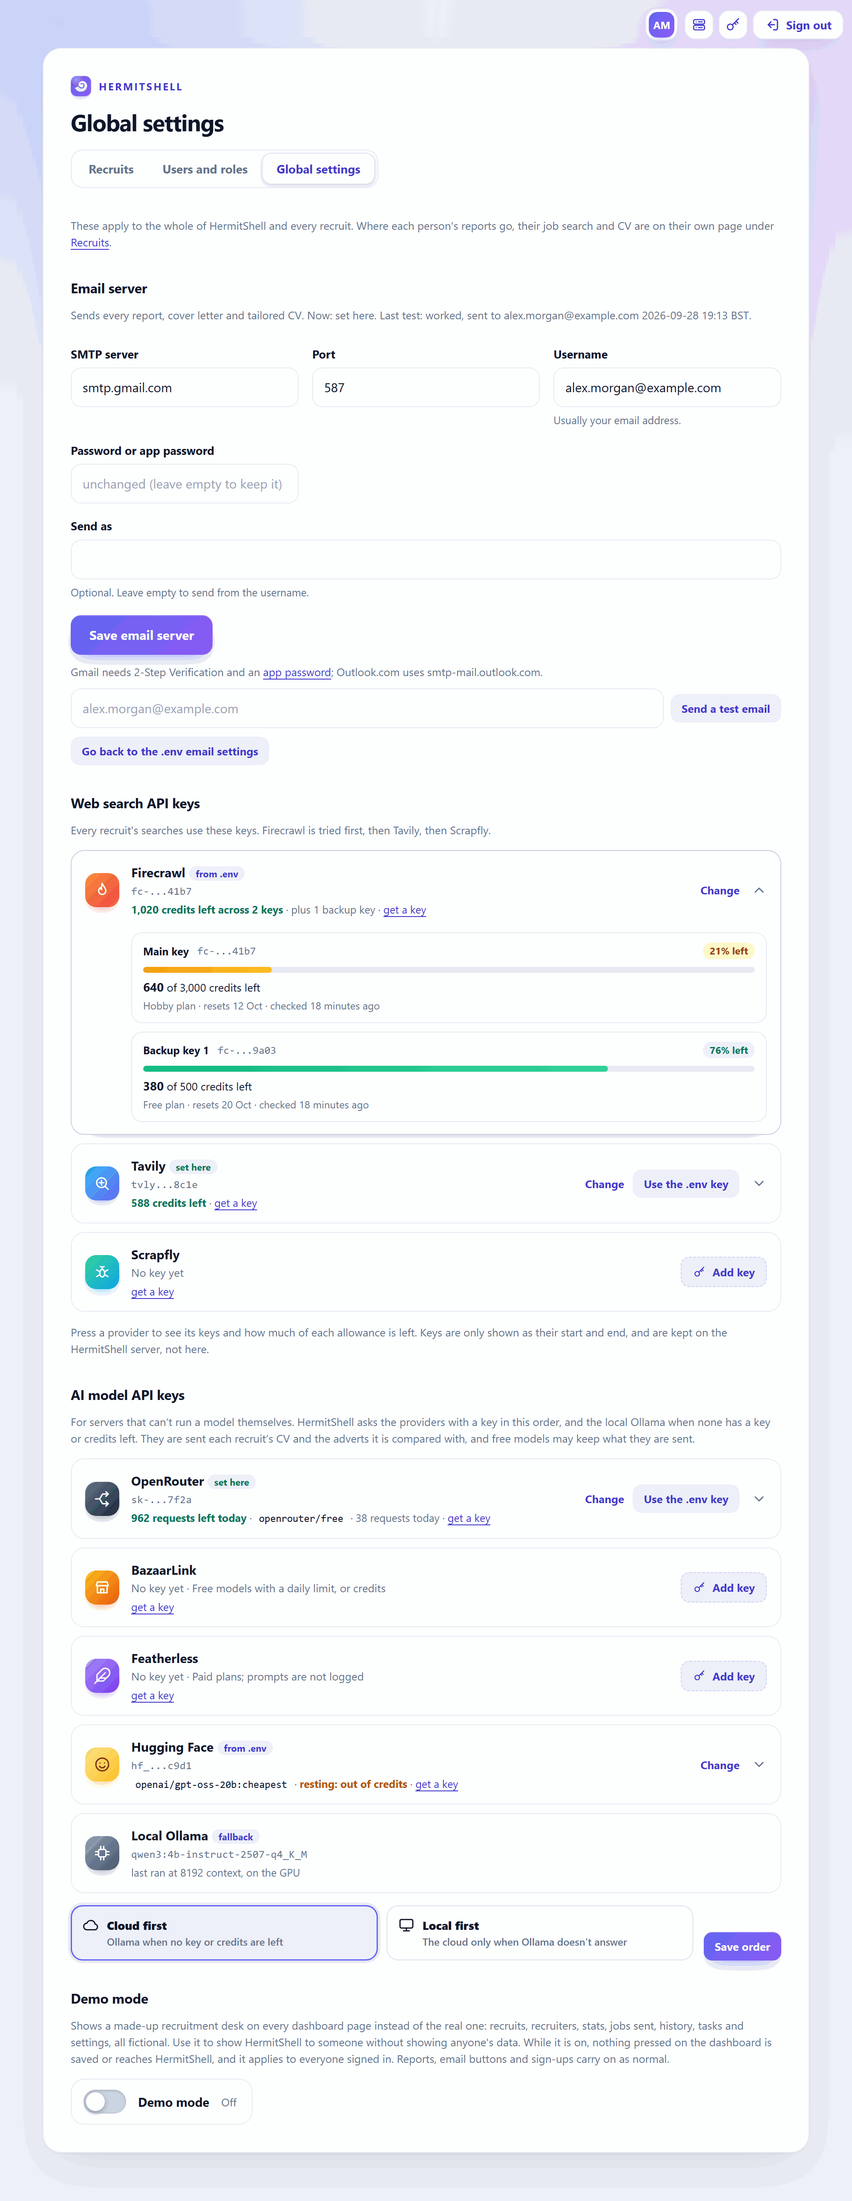
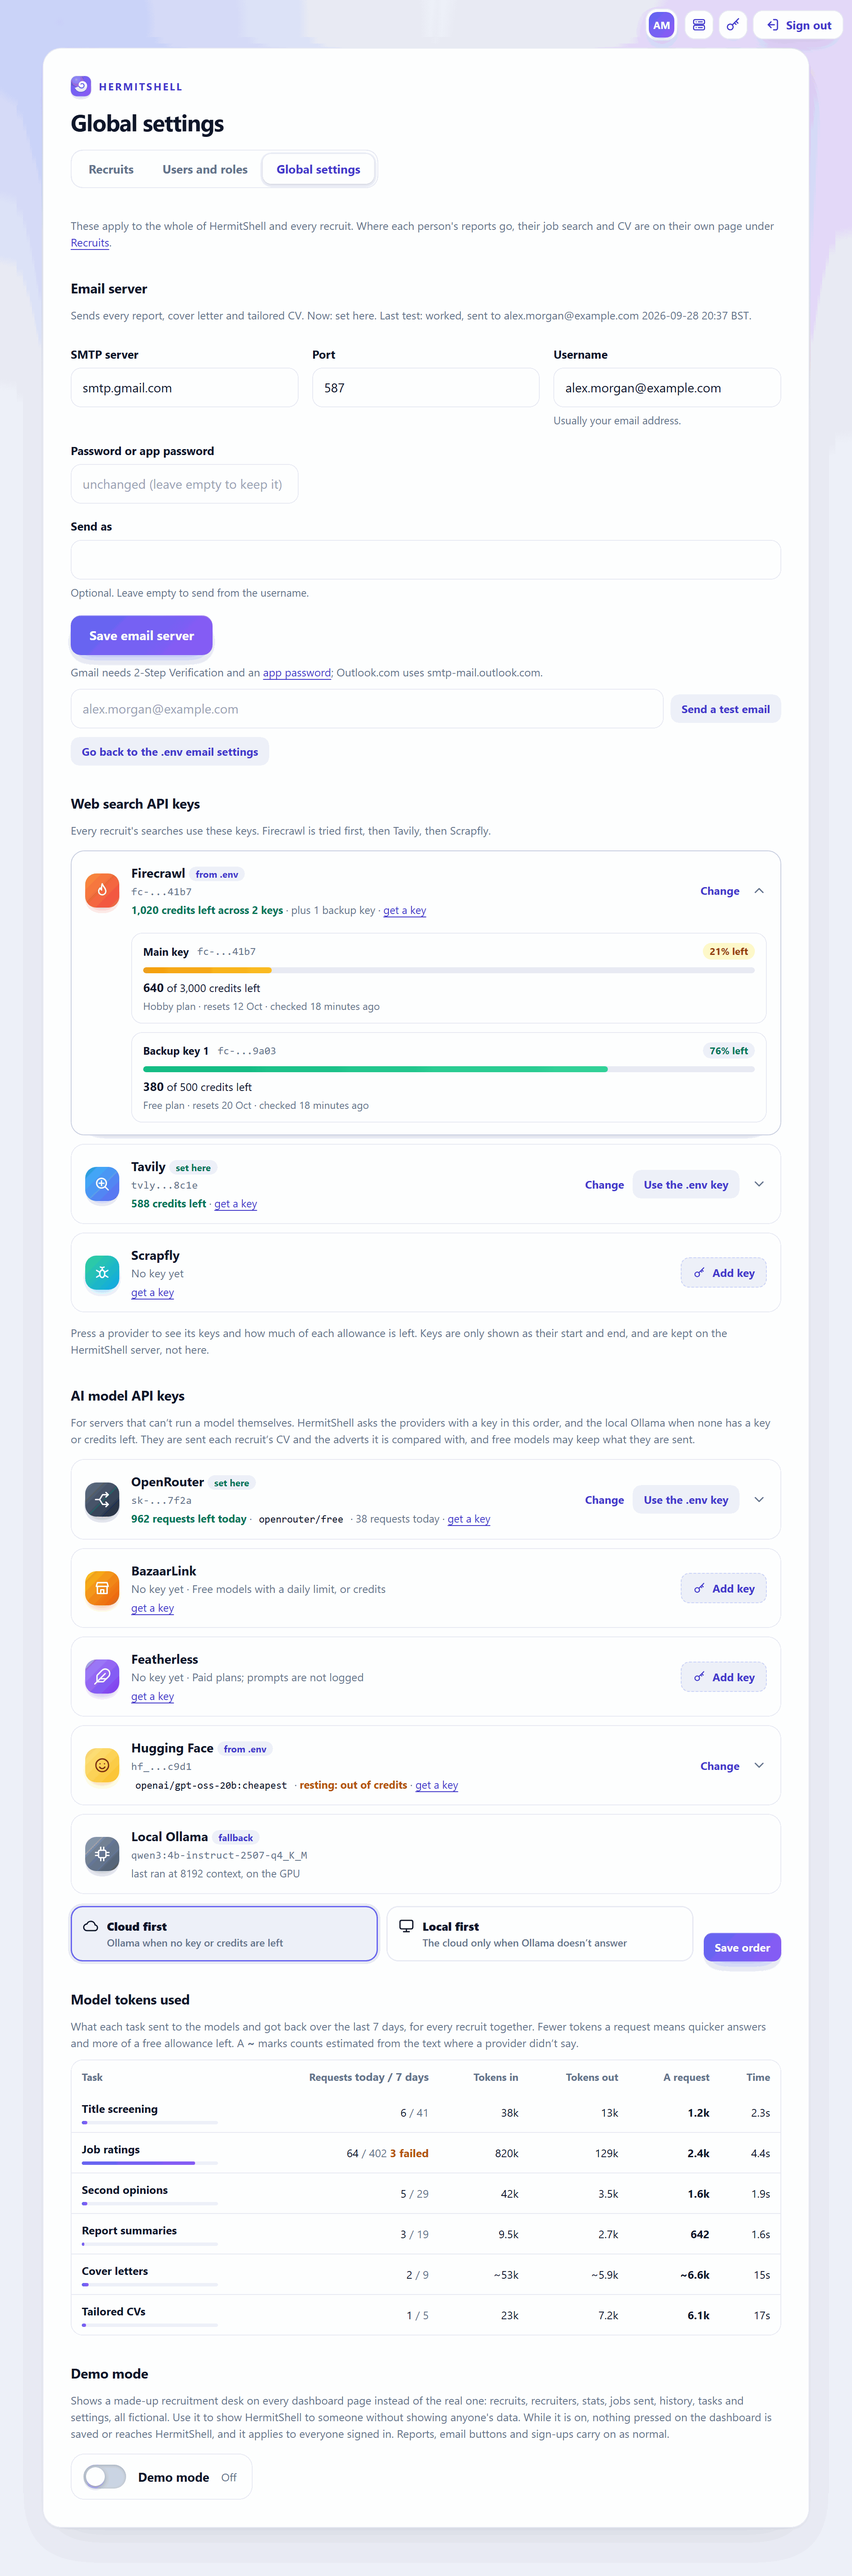
Docs: tokens used per task, the model bench, changelog and settings screenshots

diff --git a/docs/configuration.md b/docs/configuration.md
@@ -101,6 +101,35 @@ Global settings shows each key's usage (`key_usage.py`, every `WEB_KEY_USAGE_MIN
 server button the machine, the models in order and the last one that answered. Keys and setup:
 [Cloud models](api-keys.md#cloud-models).
 
+### Tokens used
+
+Every model request adds its prompt and reply tokens to `llm_usage.json` (`llm_usage.py`) in the shared
+state folder, beside the dashboard settings, so every recruit's runs count together. They are kept under
+the task that asked: title screening, job ratings, second opinions, report summaries, profiles from CVs,
+reading CVs, cover letters, tailored CVs and skills added to CVs. The counts are the provider's own: a
+cloud provider's `usage`, and Ollama's `prompt_eval_count` (which leaves out a prompt start it had cached)
+and `eval_count`. Where a provider doesn't say, they are estimated at about four characters a token and
+marked as estimates. Only counts are kept, never a prompt, a reply, a model's name or a key, and days
+older than 31 are dropped. `python3 llm_usage.py` prints today and the last 7 days, and Global settings
+shows them ([Model tokens used](feedback-worker.md#model-tokens-used)).
+
+### Testing prompts and models
+
+`scripts/llm_bench.py` runs HermitShell's real prompts on the configured models with made-up CVs and
+adverts (`scripts/bench/cases.json`). Each case rates a CV against an advert and checks the score lands
+in the expected range; the good matches also get a cover letter and a tailored CV, checked without a
+model (`writing_checks.py`) for figures and job titles the CV doesn't have, stock phrases, length and how
+many of the advert's requirements they cover. Tokens are counted in a throwaway file, so a changed
+prompt or a smaller model can be judged on quality and tokens before it goes live. Nothing is emailed or
+saved.
+
+```bash
+python3 scripts/llm_bench.py                      # every case: ratings, letters and CVs
+python3 scripts/llm_bench.py --tasks rating       # ratings only
+python3 scripts/llm_bench.py --json bench.json    # also keep the full results
+docker exec hermitshell python3 /app/scripts/llm_bench.py   # in the container
+```
+
 ## Shared settings
 
 Full template: [`.env.example`](../.env.example).

diff --git a/CHANGELOG.md b/CHANGELOG.md
@@ -8,6 +8,20 @@ using [Semantic Versioning](https://semver.org/).
 
 ### Added
 
+- **Model tokens used, per task.** Every model request, cloud or local, now counts its prompt and reply
+  tokens under the task that asked (job ratings, title screening, second opinions, summaries, profiles,
+  reading CVs, cover letters, tailored CVs, skills), in `llm_usage.json` in the shared state folder
+  (`common/llm_usage.py`). Global settings has a **Model tokens used** table with each task's requests,
+  tokens in and out, tokens a request, time and share of the week, so it's clear where trimming prompts pays
+  off. Counts come from the provider (Ollama's evaluated tokens, a cloud provider's `usage`) or are estimated
+  and marked. Only counts are kept, never a prompt, reply, model name or key; `python3 llm_usage.py`
+  prints them.
+- **A bench for prompts and models.** `scripts/llm_bench.py` runs the real rating, cover letter and
+  tailored CV prompts on the configured models with made-up CVs and adverts (`scripts/bench/cases.json`),
+  checks ratings land in range and scores letters and CVs without a model (`writing_checks.py`: figures and
+  job titles the CV doesn't have, stock phrases, length, requirements covered), with the tokens each task
+  used. Nothing is emailed, saved or added to the real counts.
+
 - **Demo mode.** The **Demo mode** switch on Global settings (admins only) fills every dashboard page
   with a made-up desk: fictional recruits in every state, recruiters, invites, a sign-up waiting, tasks,
   a cover letter PDF, and months of stats, jobs sent and history (`feedback-worker/src/demo.js`). Pages

diff --git a/README.md b/README.md
@@ -144,6 +144,7 @@ common/autofit.py          picks the model size for the machine, and GPU or CPU,
                            server per model request
 common/llm_providers.py    cloud models (OpenRouter, BazaarLink, Featherless, Hugging Face) tried in turn before or
                            after Ollama, resting a provider that is out of credits
+common/llm_usage.py        the tokens each task sends to the models and gets back, per day (counts only)
 common/worker_link.py      the one client for the feedback Worker: https only, no redirects, retries, signed requests
 common/worker_seal.py      the key pair the Worker seals dashboard passwords, API keys and CVs with
 common/doctor.py           checks and sets up prerequisites: packages, scheduler, Ollama and its model, data key
@@ -156,6 +157,7 @@ packages/daily-vacancy-report/feedback-worker/
 scripts/setup.py           interactive wizard: install, API keys, job search, profile, Worker, schedules
 scripts/cloudflare_worker.py
                            deploys or updates the Worker with a Cloudflare API token
+scripts/llm_bench.py       scores the configured models on ratings, letters and CVs with made-up cases (bench/)
 scripts/tests/             unit tests for the wizard, the Worker deploy and the .env.example files
 scripts/install.sh         copies common + the package flat into $HERMITSHELL_HOME/scripts
 scripts/install-service.sh installs it as a systemd service (or cron) on any Linux server

diff --git a/docs/feedback-worker.md b/docs/feedback-worker.md
@@ -593,6 +593,17 @@ and free models may keep what they are sent, which the [privacy notice](#privacy
 
 <img src="images/worker/admin-model-key-modal.png" alt="The AI model key window: pick the provider, paste the key and an optional model" width="420">
 
+##### Model tokens used
+
+Below the model keys, **Model tokens used** shows what each task sent to the models and got back over
+the last 7 days, for every recruit together: requests today and over the week (with any that failed),
+tokens in and out, tokens a request and the average time a request took. A bar under each task shows its
+share of the week's tokens, so the task worth trimming stands out; counts a provider didn't report are
+estimated and marked **~**. It comes from HermitShell's status ([how it's counted](configuration.md#tokens-used))
+and never holds a prompt, a reply or a key.
+
+<img src="images/worker/admin-settings-usage.png" alt="Model tokens used: job ratings, title screening, second opinions, summaries, cover letters and tailored CVs, each with requests, tokens in and out, tokens a request and time" width="720">
+
 Keys and passwords are stored on the HermitShell server (`state/dashboard.json`, mode 600) and shown only as their last four characters. Changes wait in KV and
 are applied by `profiles.py`, within seconds over the live link. Until then a **Saving** bar at the top
 says what is pending, the key or model being changed carries a **saving&hellip;** tag, a new model order

diff --git a/docs/screenshots.md b/docs/screenshots.md
@@ -462,6 +462,12 @@ older and how to update it ([why](feedback-worker.md#how-it-stays-safe)).
 
 <img src="images/worker/admin-model-key-modal.png" alt="The AI model key window: OpenRouter, BazaarLink, Featherless or Hugging Face, the API key and an optional model" width="420">
 
+<img src="images/worker/admin-settings-usage.png" alt="Model tokens used: each task's requests, tokens in and out, tokens a request and time over the last 7 days" width="620">
+
+| Control | What it does |
+| --- | --- |
+| **Model tokens used** | One row per task that asked a model anything in the last 7 days: requests today / over the week and any that failed, tokens in and out, tokens a request and the average time, with a bar for its share of the week's tokens. **~** marks counts estimated from the text ([more](feedback-worker.md#model-tokens-used)) |
+
 #### Demo mode
 
 <img src="images/worker/admin-settings-demo.png" alt="Global settings with the demo mode switch on" width="620">
